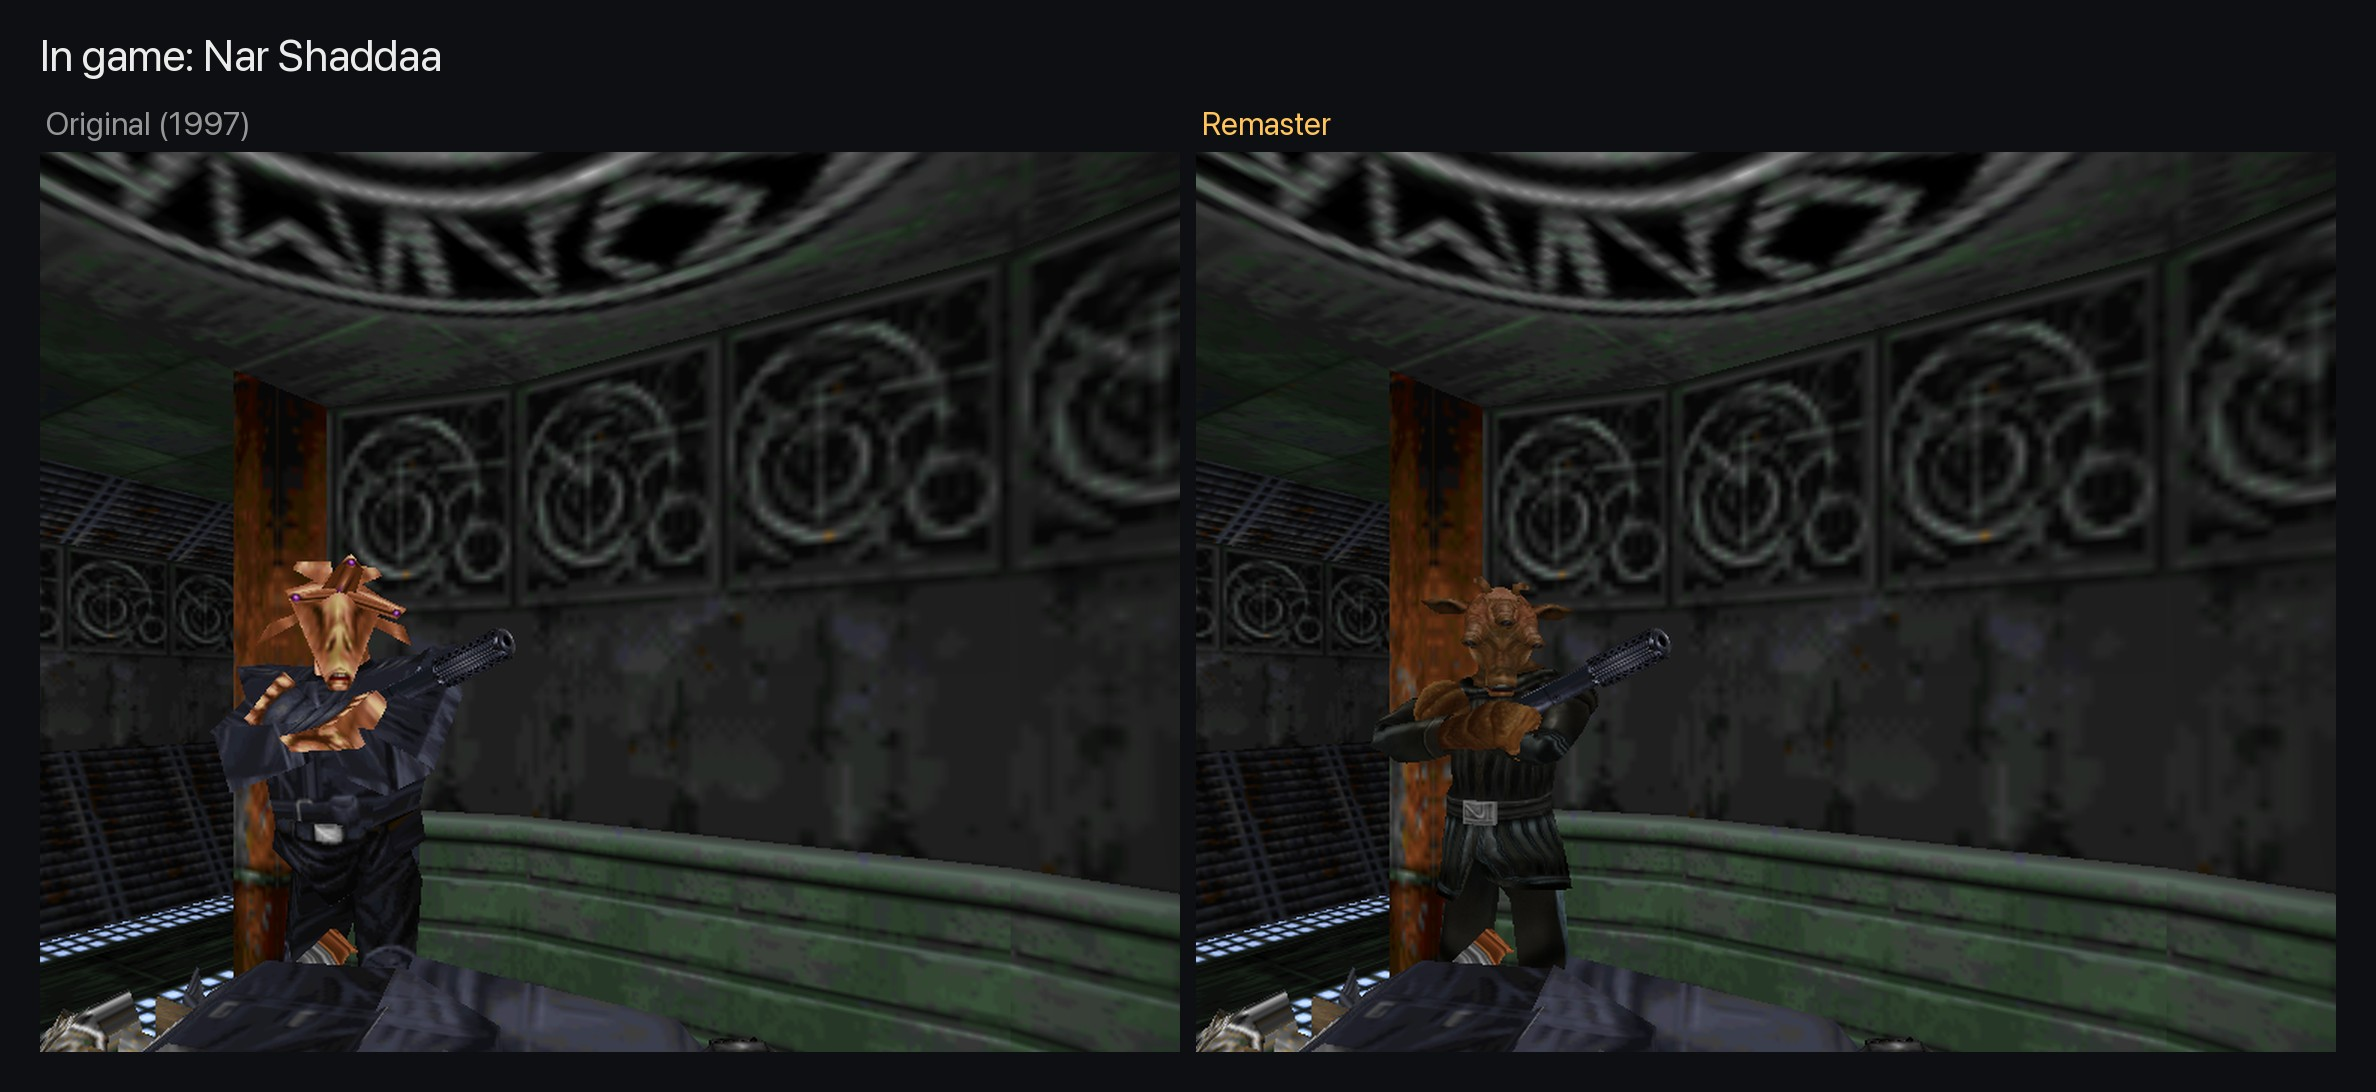
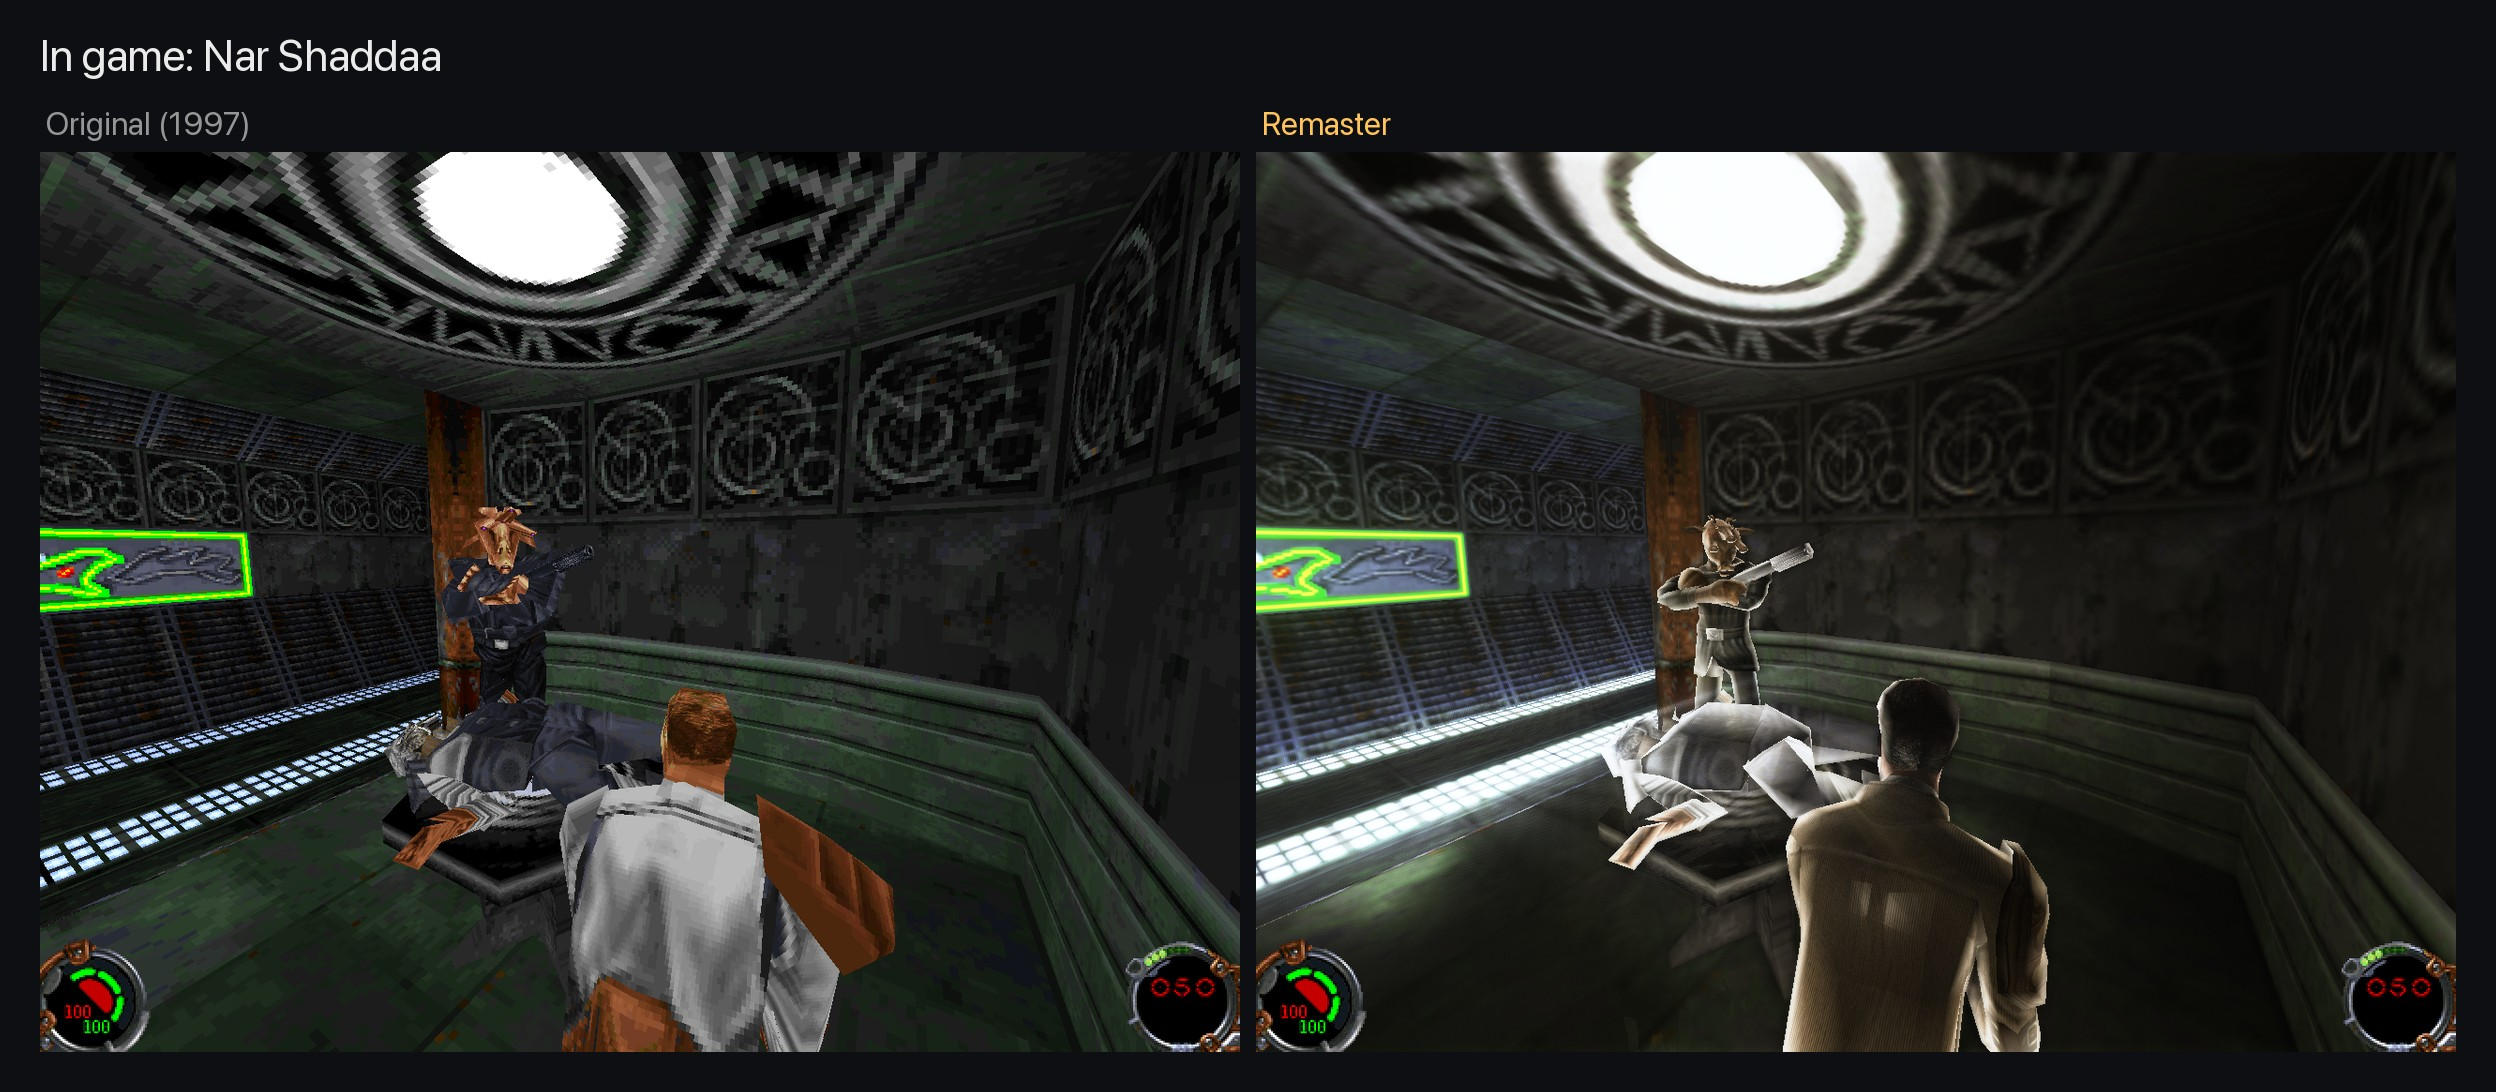
Homepage: every comparison is the 1997 game vs the remaster; model light capped under skylights

diff --git a/src/Primitives/rdModel3.c b/src/Primitives/rdModel3.c
@@ -2046,8 +2046,15 @@ static void rdModel3_ProbeLight(rdMesh* pMesh, rdMatrix34* pMatInv, rdMatrix34* 
         flex_t sum = 0;
         for (int c = 0; c < 3; c++)
         {
-            flex_t l = gain * (pc[c] * fill + keyC[c] * keyS * key * key + rimC[c] * rimS * rim
-                               + cube[5][c] * (under + floorRim)) + dyn;
+            // The body's own light (fill, key) stops at full brightness, so a model under a
+            // skylight doesn't wash out; only the edges (rims, floor light) go past it and glow.
+            flex_t body = gain * (pc[c] * fill + keyC[c] * keyS * key * key) + dyn;
+            if (body > 1.0f) body = 1.0f;
+            // The back-light rim tops out at 0.6 (it's often white skylight); the floor light
+            // can go past full brightness and glow (strips under the feet).
+            flex_t rimL = gain * rimC[c] * rimS * rim;
+            if (rimL > 0.6f) rimL = 0.6f;
+            flex_t l = body + rimL + gain * cube[5][c] * (under + floorRim);
             if (l < floorL) l = floorL;
             if (l > cap) l = cap;
             rdModel3_aProbeRGB[c * nv + i] = l;

diff --git a/.github/README.md b/.github/README.md
@@ -26,10 +26,10 @@ That breaks down into concrete engine work:
 |---|---|---|
 | Lights that pool on surfaces and glint off wet metal | Per-pixel lighting with specular highlights | Done (playtesting) |
 | Wet floors reflecting light strips, sky and objects | Screen-space reflections | Done (playtesting) |
-| Haze and light shafts | Depth-based haze lit by the scene, screen-space light shafts | Done (playtesting); volumetric fog, smoke and steam [planned](../docs/stage2-atmosphere-plan.md) |
+| Haze and light shafts | Volumetric fog lit by the baked light, screen-space light shafts | Fog on all 25 levels (playtesting); height fog, smoke and steam [next](../docs/stage2-atmosphere-plan.md) |
 | Filmic colour | Colour grading pass with live-reloading .cube LUTs from Resolve | Done |
 | Glowing lights and sabers that roll off softly | Bloom (built in) into a half-float buffer with highlight roll-off | Done |
-| Every shot lit like a film: side key light, rim light on every character, nothing flat | Light bake with recovered designer lights (Blender Cycles); light probes so characters take the baked light's colour and direction, plus key, rim and floor light | Light maps baking for all 25 levels; light probes in game (playtesting) |
+| Every shot lit like a film: side key light, rim light on every character, nothing flat | Light bake with recovered designer lights (Blender Cycles); light probes so characters take the baked light's colour and direction, plus key, rim and floor light | All 25 levels baked: light maps and light probes in game (playtesting) |
 | Crisp, detailed, grimy surfaces | HD textures with roughness and normal maps | Stage 3 |
 | Detailed characters | New models through a Blender pipeline | Stage 4 |
 
@@ -62,8 +62,10 @@ That breaks down into concrete engine work:
 - [x] Cinematic key and rim light on characters and props (first pass)
 - [x] Light bake in game: baked light maps replace the 1997 corner light on six test levels (`r_lightmaps`, in the remaster preset) ([plan](../docs/stage2-lightbake-plan.md))
 - [x] Light probes: characters and props lit by the bake around them (colour, direction, floor light)
-- [ ] Light bake: tune and bake every level (sun for day levels)
-- [ ] Atmosphere: volumetric fog lit by the bake, height fog, smoke and steam ([plan](../docs/stage2-atmosphere-plan.md))
+- [x] Light bake on all 25 levels: light maps, light probes and light volumes
+- [ ] Light bake tuning (sun for day levels)
+- [x] Volumetric fog lit by the baked light (`r_volumetricFog`, all 25 levels)
+- [ ] Atmosphere, continued: height fog, hand-placed fog and smoke, steam ([plan](../docs/stage2-atmosphere-plan.md))
 - [x] One-switch preset: `remaster 1` in the console
 
 ### Stage 3 checklist
@@ -113,79 +115,43 @@ That breaks down into concrete engine work:
 
 ## Latest
 
-Work in progress lives on feature branches until it's been playtested; the newest items below are on [`stage2-light-probes`](https://github.com/domdino/OpenJKDF2/tree/stage2-light-probes).
+Every comparison below is the real 1997 game (original models, textures and lighting) on the left and the remaster on the right. Work in progress lives on feature branches until it's been playtested; the newest items are on [`stage2-atmosphere`](https://github.com/domdino/OpenJKDF2/tree/stage2-atmosphere).
 
-**Baked lighting.** Every level's lighting is being re-baked in Blender's Cycles path tracer: the level designers' lights (recovered from the 1997 lighting), every glowing strip and lamp as a real light, and sky light through openings, with shadows and bounce light. The result is a light map the engine uses in place of the 1997 corner light, plus light probes that light characters and props by what's around them. Kyle walking over the hangar's red floor strips now catches their red as a hot edge on his legs, with a rim from the white lights ahead. (Known: the shuttle's lit face blows out; models aren't part of the bake yet.)
+**Baked lighting, light probes and volumetric fog.** Every level's lighting has been re-baked in Blender's Cycles path tracer: the level designers' lights (recovered from the 1997 lighting), every glowing strip and lamp as a real light, and sky light through openings, with shadows and bounce light. Levels use the result as light maps; characters and props take their light from baked light probes (colour, direction, a rim from the light behind them and the glow of the floor under their feet); and the air is filled with volumetric fog lit by the same bake, so it glows red over the hangar strips and stays dark between lights. All 25 levels are baked.
 
-![Hangar: the 1997 game vs the remaster with light maps and light probes](../docs/screenshots/stage2-baked-light-hangar.jpg)
+![Hangar: the 1997 game vs the remaster](../docs/screenshots/stage2-baked-light-hangar.jpg)
 
-Tuning the character light against a paint-over reference (floor light strength, then the back-light rim):
+Six levels, 1997 vs remaster:
 
-![Floor light on Kyle](../docs/screenshots/stage2-light-probes-floor-light.jpg)
+![Baked lighting on six levels](../docs/screenshots/stage2-lightmaps-in-game.jpg)
 
-![Back-light rim](../docs/screenshots/stage2-light-probes-rim.jpg)
+**Everything together:** HD textures, Jedi Academy's cast on the original skeletons, per-pixel lighting, wet reflections, bloom, ambient occlusion, a filmic grade and the new skies (open the console with backtick and type `remaster 1`; `remaster 0` for the original):
 
-Light maps on six levels: the 1997 game (left) vs the remaster (right):
+![The 1997 game vs the remaster](../docs/screenshots/stage2-1997-vs-remaster.jpg)
 
-![Light maps in game](../docs/screenshots/stage2-lightmaps-in-game.jpg)
+**Skies:** a volumetric cloud sky on the storm levels and presets for the rest (Nar Shaddaa smog, Sulon overcast, day and sunset skies):
 
-**Volumetric cloud sky** on the storm levels, and sky presets for the rest (Nar Shaddaa smog, Sulon overcast, day and sunset skies):
+![Skies, 1997 vs remaster](../docs/screenshots/stage2-volumetric-sky.jpg)
 
-![Volumetric sky](../docs/screenshots/stage2-volumetric-sky.jpg)
+**Lightsaber:** a glowing plasma blade instead of a flat textured strip, a white-hot core, a deep coloured sheath and a halo that lights the room, with swing trails. ([video](../docs/screenshots/stage4-saber-blade.mp4))
 
-**Texture God on every level:** my own AI upscaling and PBR pipeline now covers every level texture, including per-level palette variants (507 textures in game):
+![Lightsaber, 1997 vs remaster](../docs/screenshots/stage4-saber-blade.jpg)
 
-![Texture God palette variants](../docs/screenshots/stage3-texturegod-palette-variants.jpg)
-
-Next up: [atmosphere](../docs/stage2-atmosphere-plan.md), real volumetric fog lit by the baked light (glowing red over the hangar strips, dark between), height fog in pits and canyons, and hand-placed fog and smoke to hide rough terrain.
-
-All 25 cutscenes now play upscaled in game (Topaz, 1920x900), and first-person view shows Kyle's own gloves and sleeves:
-
-![Cutscenes, original vs upscale](../docs/screenshots/stage5-cutscenes-hd.jpg)
-
-The lightsaber blade is now a glowing plasma beam instead of a flat textured strip: a white-hot core, a deep coloured sheath and a soft halo that lights the room, with plasma that ripples and hums. Enemy sabers keep their own colours. ([video](../docs/screenshots/stage4-saber-blade.mp4))
-
-![Lightsaber blade, 1997 vs remaster](../docs/screenshots/stage4-saber-blade.jpg)
-
-Stage 4: most of Jedi Knight's cast now uses Jedi Academy's characters, fitted onto the original skeletons so every 1997 animation still drives them. Same lighting and framing for each pair:
+**The cast:** most of Jedi Knight's characters now use Jedi Academy's models, fitted onto the original skeletons so every 1997 animation still drives them (same lighting and framing for each pair):
 
 ![The cast, 1997 vs remaster](../docs/screenshots/stage4-cast-sheet.jpg)
 
-In game, Nar Shaddaa (left 1997, right remaster):
-
 ![In game: Nar Shaddaa](../docs/screenshots/cast/ingame-narshadda.jpg)
 
-Stage 4: the engine now supports skinned characters, and Jedi Academy's Kyle runs in Jedi Knight on the original skeleton and animations (left original, right Academy Kyle; bottom: mid-run, same animation).
+**Texture God on every level:** my own AI upscaling and PBR pipeline covers every level texture, including per-level palette variants (507 textures in game). Original texture (left of each pair) vs Texture God:
 
-![Jedi Academy Kyle in Jedi Knight](../docs/screenshots/stage4-academy-kyle.png)
+![Texture God palette variants](../docs/screenshots/stage3-texturegod-palette-variants.jpg)
 
-Stage 5 has started. Every cutscene is extracted for upscaling, and the engine now plays HD replacement videos (H.264, HEVC or ProRes, any resolution or frame rate) in place of the 640x300 originals, decoded on the Mac's media engine. The original keeps running underneath for timing, sound and subtitles. Left: original. Right: a black-and-white 1080p test file proving the swap.
+**Cutscenes:** all 25 play upscaled in game (Topaz, 1920x900), original (left) vs upscale:
 
-![Original vs HD replacement cutscene](../docs/screenshots/stage5-hd-cutscene-test.png)
+![Cutscenes, original vs upscale](../docs/screenshots/stage5-cutscenes-hd.jpg)
 
-Stage 3 has started. Top: the remastered look on the original textures. Bottom: the same with HD textures from the community Neural Upscale pack (the Sarris building and Boc's rock wall gain real detail). The game's own loader already reads HD texture packs; new tools extract every original texture for upscaling and rebuild packs whose files lost their names.
-
-![Original vs HD textures](../docs/screenshots/stage3-hd-pack-off-on.png)
-
-The whole Stage 2 look behind one switch: open the console (backtick) and type `remaster 1` (`remaster 0` for the original). Top: original game. Bottom: remaster preset (per-pixel light with wet highlights, coloured saber light, reflections, haze, light shafts, grade, bloom, ambient occlusion).
-
-![Original vs remaster preset](../docs/screenshots/stage2-remaster-preset-off-on.png)
-
-Haze and light shafts, first pass (left off, right on): the hangar gets a hazy glow around the shuttle and light spilling from the wall strips; the rooftop's sky and far building sit back in hazy air.
-
-![Haze and light shafts off and on](../docs/screenshots/stage2-haze-shafts-off-on.png)
-
-Screen-space reflections, first pass: wet floors now mirror what's around them (top off, bottom on). Hangar floor reflecting the shuttle and light strips, the wet rooftop reflecting the figures, and Boc's saber throwing a pink pool.
-
-![Reflections off and on](../docs/screenshots/stage2-reflections-off-on.png)
-
-Per-pixel lighting, phase 1. The same light near the far wall: the original per-vertex lighting (left) barely shows it; per-pixel (right) gives a proper pool of light and a wet glint on the ceiling ring.
-
-![Per-pixel lighting before and after](../docs/screenshots/stage2-perpixel-light-before-after.png)
-
-Built-in effects, all running natively. Top: original, bloom. Bottom: ambient occlusion, everything on with a test grade.
-
-![Effects comparison](../docs/screenshots/stage2-effects-base-bloom-ssao-all.png)
+Next up: [atmosphere](../docs/stage2-atmosphere-plan.md), continued: height fog in pits and canyons, hand-placed fog and smoke to hide rough terrain, smoke and steam.
 
 Decisions, findings and dead ends are logged as I go in [docs/DECISIONS.md](../docs/DECISIONS.md).
 

diff --git a/docs/DECISIONS.md b/docs/DECISIONS.md
@@ -625,3 +625,11 @@ Dom approved docs/stage2-atmosphere-plan.md. Branch `stage2-atmosphere`.
 
 **Volumetric fog** (step 2, `r_volumetricFog`, in the remaster preset; `r_fogDensity` 0.08, `r_fogGain`, `r_fogMaxDist` 30, `r_fogNoise` 0.6): `src/Engine/sithAtmos.c` loads the volume and copies the part around the camera into two dense grids (fine 96x96x48 cells, coarse 64x64x32), refilled when the camera moves a quarter of the way out. The fog shader marches each pixel's view ray (32 steps, jittered) through them: density = base x drifting two-octave noise, light = the baked light in the air there (cells inside walls have no data and are ignored by dividing by the filtered coverage). Replaces the screen-space haze where a level has a volume; haze stays as the fallback.
 - Hangar: the far end fills with warm, red-tinged air instead of flat haze; the shuttle sits back in it. 0.08 is subtle; 0.2 fills the hangar with lit smoke; 0.4 is heavy. Cost about 7 fps at 0.08 (114 -> 107). docs/screenshots/stage2-volumetric-fog-densities.jpg.
+
+**Every level baked, start to finish**: probes and light volumes for all 25 levels (`bake_all.py --probes-only`, `--volume-only`; the full pipeline now runs export, fit, bake, sidecar, probes, volume points, volume bake). Escape '88's open floors produced 22.6 million probes and ate a third of memory; floors now get at most 20,000 probes (coarser spacing on huge ones): 162k. Volumes take 0-2 minutes per level. Fog density default 0.1 (Dom's pick).
+
+**Model light under bright skylights**: on Nar Shaddaa the Gran and Kyle came out nearly white: the probe light past full brightness turned into glow over the whole figure. Now the body's own light (fill, key) stops at full brightness, the white back-light rim tops out at 0.6, and only the floor light can go overbright and glow (the hangar's red edges keep it).
+
+**Homepage comparisons are all 1997 vs remaster** (Dom: the light maps image was wrong, "make sure everything on that page shows actual original 97 gfx vs new versions"). `scripts/capture_showcase.sh orig|remaster [views]` captures 11 standard views (Nar Shaddaa first and third person, hangar, Sarris, Boc, Yun, cargo yard, tower, fuel station, Barons Hed, saber). The README's Latest section now only shows those pairs, the cast sheet, Texture God's texture sheet and the cutscenes; feature on/off and tuning images stay here in the log.
+
+**Push window** (Dom, 2026-11-12): no pushing Mon-Fri before 18:00; commits stay local until then.
